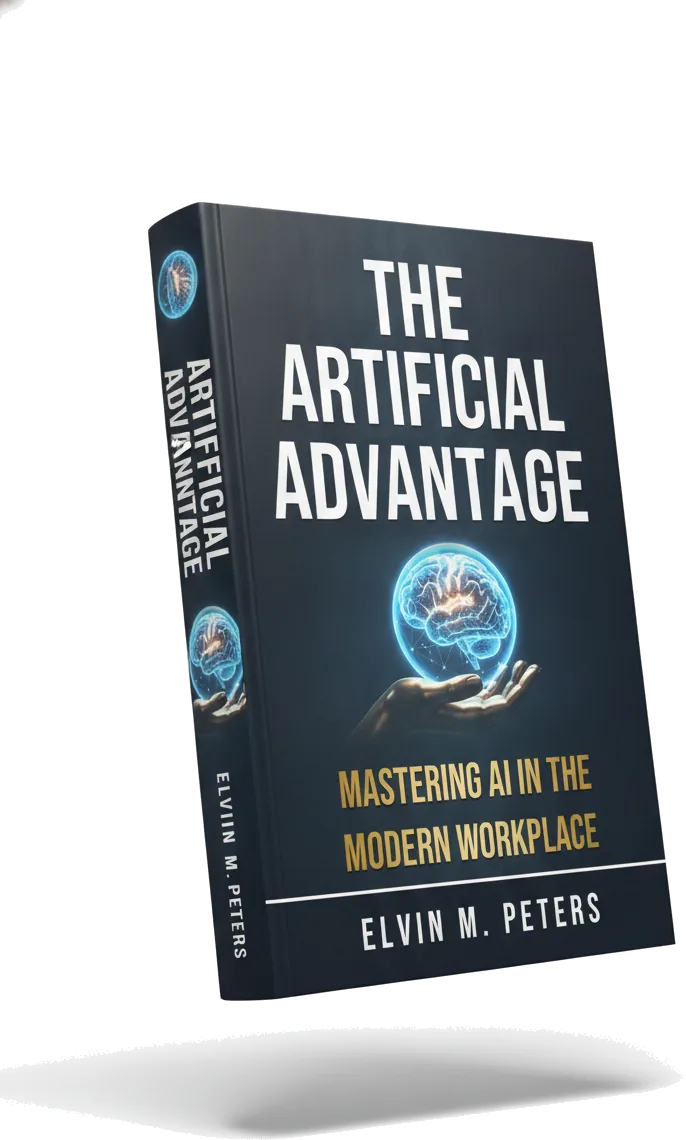
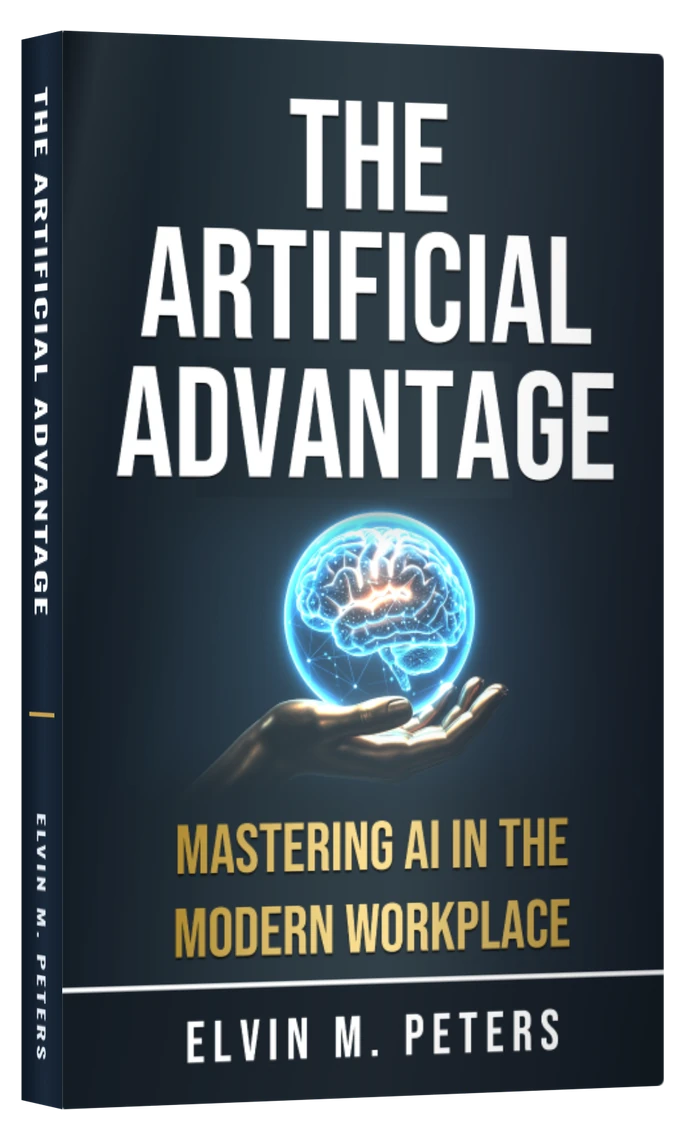
731: the 3D book's misspelled spine replaced; homepage tools sentence
book-3d.webp and book-3d-hero.webp: ART DIRECTOR's code-built book (spine THE ARTIFICIAL ADVANTAGE | ELVIN M. PETERS,
re-export 01:42 without the spine tail), on the same 686 x 1140 canvas so layouts keep their size.
store/v10 bundle pictures (Step 1): ART DIRECTOR's rebuilt versions from that book.
email/emaillib_workbook_2e_cover.jpg: new header for post-purchase email 2, the current Workbook cover.
page-home-long.json: 'share the same engine' -> 'work the same way' (COPY-home-card-tools-change-2026-11-24).

diff --git a/preview/home-long/index.html b/preview/home-long/index.html
@@ -514,7 +514,7 @@
       <details class="card"><summary><span class="ct">&ldquo;I'm not technical.&rdquo;</span><span class="cl">The skill is direction, and you already use it at work (Ch 3).</span><span class="ci" aria-hidden="true">+</span></summary>
         <div class="cx"><p>The Director's Mindset puts you in the chair with AI as the crew. You supply the judgment, the direction and the check, which is what you already do when you hand work to a colleague.</p><p>Priya, a consultant in the book (a character, a composite), practised for two weeks in January and had twelve templates by March, and &ldquo;no technical training went into any of it.&rdquo;</p></div></details>
       <details class="card"><summary><span class="ct">&ldquo;The tools change too fast.&rdquo;</span><span class="cl">A good brief carries over from one model to the next (Ch 6).</span><span class="ci" aria-hidden="true">+</span></summary>
-        <div class="cx"><p>ChatGPT, Claude and Gemini share the same engine underneath, and each one mirrors the quality of what you type. In the book's words, &ldquo;The skill you're building here transfers to every tool, because the underlying engine is the same one.&rdquo; Product names will keep changing, and your briefs keep working.</p></div></details>
+        <div class="cx"><p>ChatGPT, Claude and Gemini work the same way underneath, and each one mirrors the quality of what you type. In the book's words, &ldquo;The skill you're building here transfers to every tool, because the underlying engine is the same one.&rdquo; Product names will keep changing, and your briefs keep working.</p></div></details>
     </div>
   </div>
 </section>
